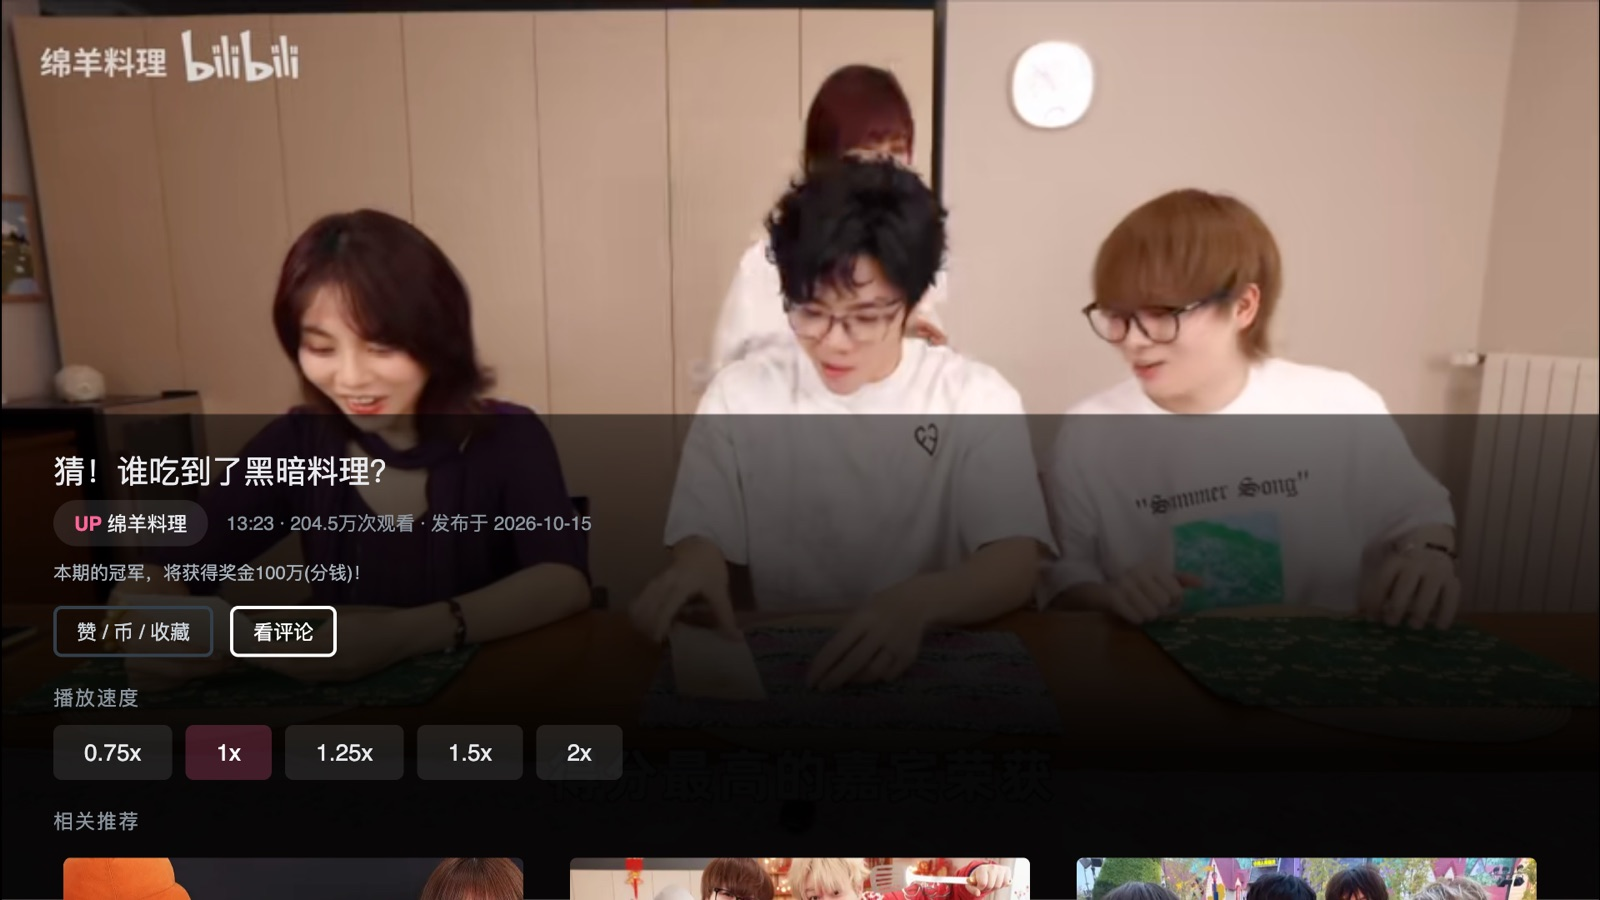
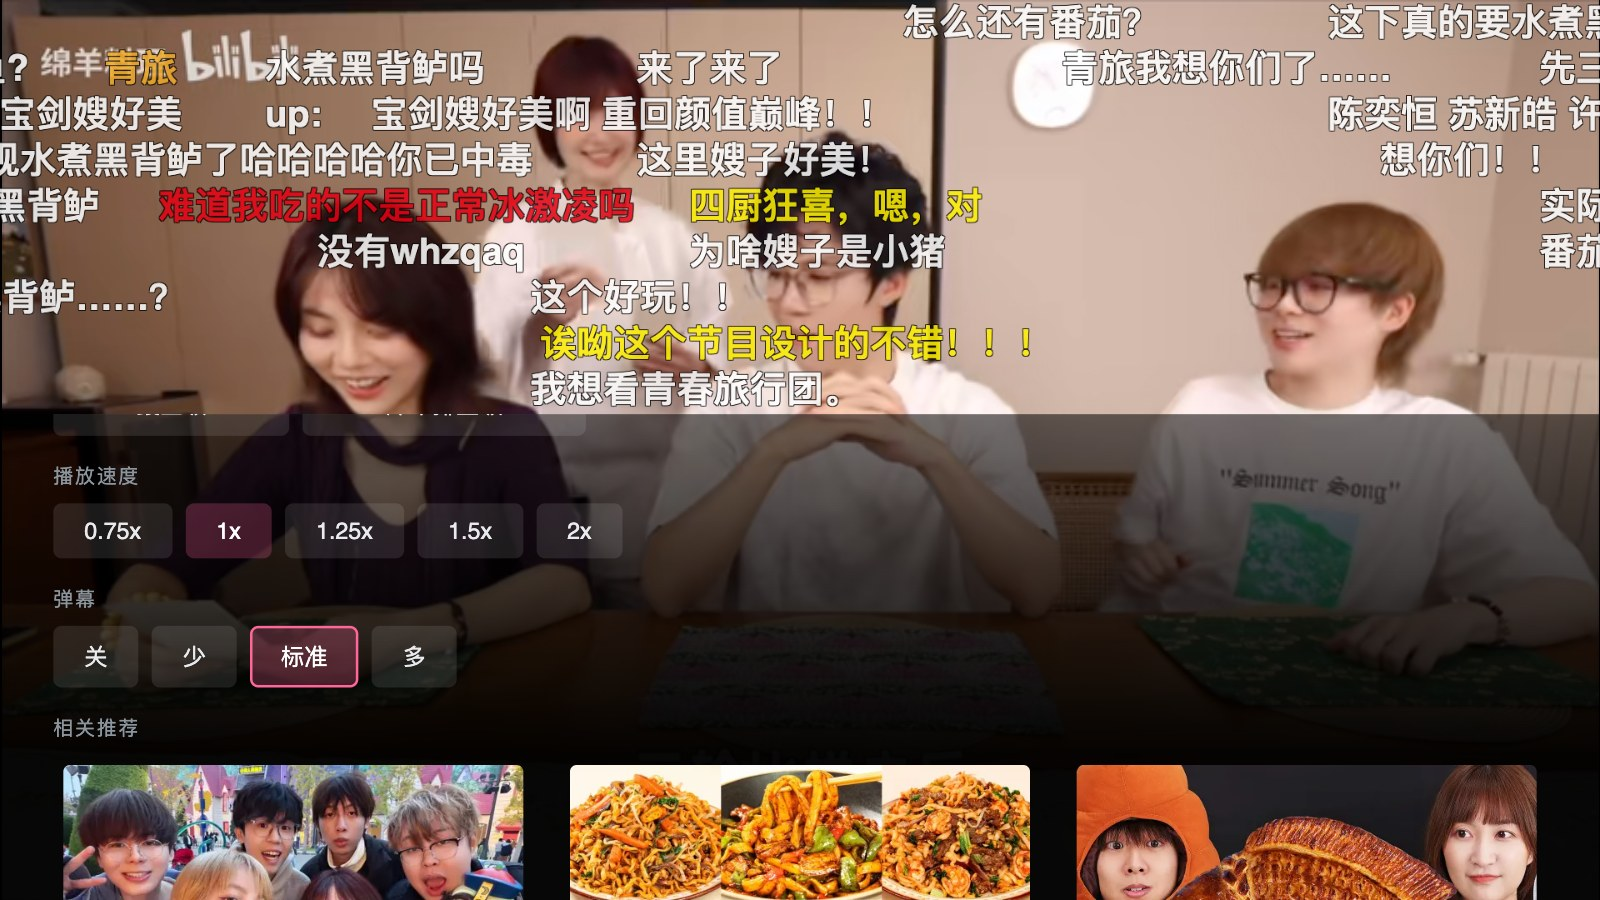
播放面板打开时，弹幕只在面板上方飘（不再压在倍速、弹幕那几排上）；轨道缩了不重建，面板关上后没飘完的接着飘；README 面板截图换新
Claude-Session: https://claude.ai/code/session_01SSm6jujiXp2p8KRvnBjhcj

diff --git a/app/js/danmaku.js b/app/js/danmaku.js
@@ -178,6 +178,16 @@ var Danmaku = (function () {
             this.free.push(-Infinity); this.lastStart.push(-Infinity); this.lastW.push(0); this.fixedUntil.push(-Infinity);
         }
     };
+    /* The rows on screen changed: the play panel covers the bottom of the
+     * area while it is open. Shrinking keeps the bookkeeping of the rows it
+     * hides, so when the panel closes and they come back, the comments still
+     * crossing them are not run over by new ones. */
+    Lanes.prototype.resize = function (count) {
+        while (this.free.length < count) {
+            this.free.push(-Infinity); this.lastStart.push(-Infinity); this.lastW.push(0); this.fixedUntil.push(-Infinity);
+        }
+        this.count = count;
+    };
     /* → the lane (row index from the top), or -1 when nothing fits: dropped. */
     Lanes.prototype.scroll = function (now, width) {
         for (var i = 0; i < this.count; i++) {
@@ -217,7 +227,9 @@ var Danmaku = (function () {
         function area() {
             var h = box.clientHeight || Math.round(1080 * 0.7);
             var n = Math.max(1, Math.floor(h / lineH));
-            if (!lanes || n !== laneCount) { laneCount = n; lanes = new Lanes(n); }
+            if (!lanes) { lanes = new Lanes(n); }
+            else if (n !== laneCount) { lanes.resize(n); }
+            laneCount = n;
             return lanes;
         }
 

diff --git a/app/js/app.js b/app/js/app.js
@@ -3966,6 +3966,7 @@
         cancelScrub();
         optionsOpen = true;
         el("playerui").className = "hidden";
+        document.body.className += " options-open";
         el("options").className = "scroll";
         el("options").scrollTop = 0;
 
@@ -4041,6 +4042,7 @@
     function closeOptions() {
         if (!optionsOpen) { return; }
         optionsOpen = false;
+        document.body.className = document.body.className.replace(/\s*options-open/g, "");
         el("options").className = "hidden scroll";
         /* The thumbnails go with the screen: openOptions repaints from the list
          * every time anyway (that is how a late `related` response reaches an

diff --git a/app/css/app.css b/app/css/app.css
@@ -709,4 +709,9 @@ body.density-5 .library-item { width: 344px; }
     font-weight: 600; line-height: 1.24; will-change: transform; opacity: 0.85;
     text-shadow: 1px 1px 0 #000, -1px -1px 0 #000, 1px -1px 0 #000, -1px 1px 0 #000; }
 .comments-open #danmaku { display: none; }
+/* The play panel starts at 46% (496px). Without this the comments drifted on
+ * behind its rows and over the speed chips (seen in the 10-18 README shots).
+ * The renderer reads the height and only sends new comments down the rows
+ * still in view; the ones crossing a hidden row are clipped until it closes. */
+.options-open #danmaku { height: 496px; }
 

diff --git a/README.en.md b/README.en.md
@@ -22,7 +22,7 @@ what you half-watched on the phone is under the cursor when the TV comes on.
 | ![Home](docs/screenshots/01-home.jpg) | ![Playback](docs/screenshots/03-player-danmaku.jpg) |
 | Three big cards a row, readable from the sofa; signed in, the top row is 「continue watching」 and the cursor starts on it | Danmaku drift right to left without overlapping, and pause and change speed with the video; scrubbing with thumbnail previews; up to 1080p H.265 when signed in, 4K with a 大会员 (premium) account |
 | ![Panel](docs/screenshots/04-panel.jpg) | ![Comments](docs/screenshots/05-comments.jpg) |
-| Press down while playing for the description, speed, parts and related videos — **the video keeps running**; like / coin / favourite and comments are here too | Comments and replies beside the video, which keeps playing |
+| Press down while playing for the description, speed, danmaku, parts / collection and related videos — **the video keeps running**, with the danmaku moved up above the panel; like / coin / favourite and comments are here too | Comments and replies beside the video, which keeps playing |
 | ![Settings](docs/screenshots/06-settings.jpg) | ![Search](docs/screenshots/02-search.jpg) |
 | Settings: autoplay, subtitles, danmaku, quality cap, clearing watch history, self-update, and cards per row to suit the TV and the sofa | Search, with the TV's own Chinese IME one button away |
 

diff --git a/README.md b/README.md
@@ -21,7 +21,7 @@
 | ![首页](docs/screenshots/01-home.jpg) | ![播放](docs/screenshots/03-player-danmaku.jpg) |
 | 3 列大卡片，从沙发上也看得清；登录后最上面一行是「继续观看」，开机光标就在上面 | 弹幕从右往左飘，不叠在一起，跟着暂停和倍速走；拖动时有缩略图预览；登录后最高 1080P H.265，大会员最高 4K |
 | ![面板](docs/screenshots/04-panel.jpg) | ![评论](docs/screenshots/05-comments.jpg) |
-| 播放中按下键拉出简介、倍速、分 P 与相关推荐，**视频不停**；点赞、投币、收藏和看评论也在这里 | 边看边读评论和楼中楼，视频缩到一边接着播 |
+| 播放中按下键拉出简介、倍速、弹幕、分 P / 合集与相关推荐，**视频不停**，弹幕挪到面板上方接着飘；点赞、投币、收藏和看评论也在这里 | 边看边读评论和楼中楼，视频缩到一边接着播 |
 | ![设置](docs/screenshots/06-settings.jpg) | ![搜索](docs/screenshots/02-search.jpg) |
 | 设置：自动播放、字幕、弹幕、画质上限、清空观看记录、自动更新，每行几个视频按电视大小和离沙发多远来选 | 搜索，可切到电视自带的中文输入法 |
 
